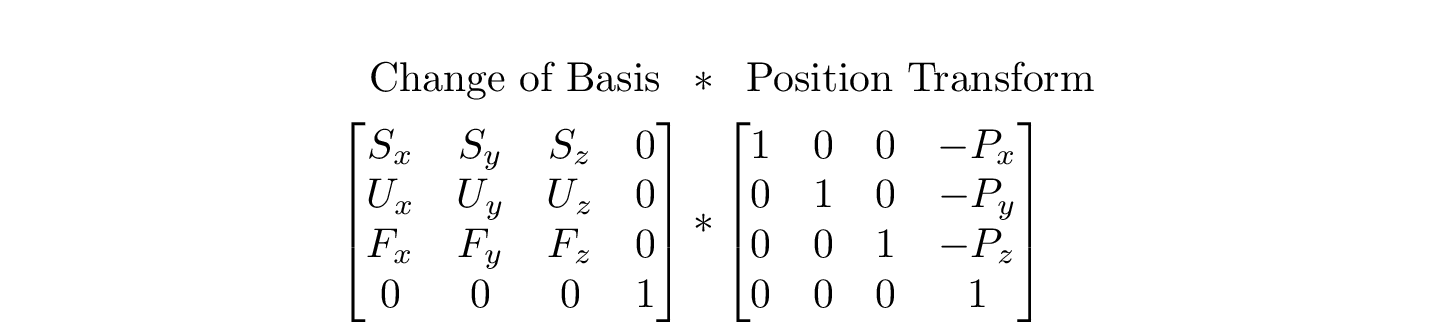
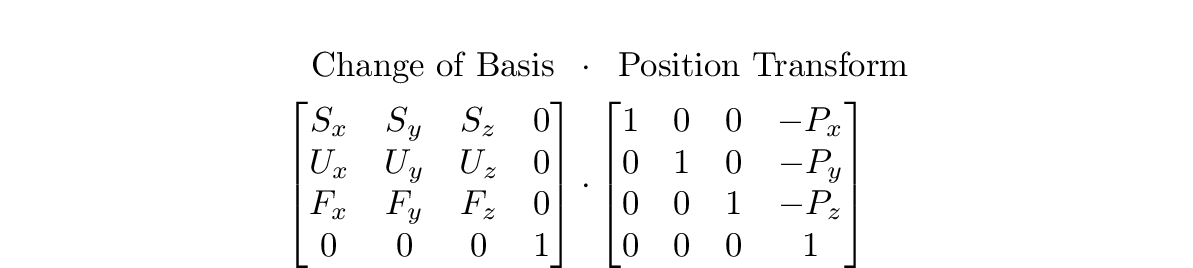
Fixed matrix explaination images

Changed region(s): [[0.2171, 0.3582, 0.7443, 1.0], [0.2481, 0.1791, 0.7754, 0.3284]]

diff --git a/assets/img/posts/Meditative-Marble/mat-mul/mat.tex b/assets/img/posts/Meditative-Marble/mat-mul/mat.tex
@@ -3,13 +3,13 @@
 \begin{document}
 
 \begin{align*}
-  \text{Change of Basis} \; \; &* \; \; \text{Position Transform} \\
+  \text{Change of Basis} \; \; & \cdot \; \; \text{Position Transform} \\
   \begin{bmatrix}
     S_x & S_y & S_z & 0 \\
     U_x & U_y & U_z & 0 \\
     F_x & F_y & F_z & 0 \\
     0 & 0 & 0 & 1 
-  \end{bmatrix} &*
+  \end{bmatrix} & \cdot
   \begin{bmatrix}
     1 & 0 & 0 & -P_x \\
     0 & 1 & 0 & -P_y \\

diff --git a/assets/img/posts/Meditative-Marble/mat/mat.tex b/assets/img/posts/Meditative-Marble/mat/mat.tex
@@ -3,7 +3,7 @@
 \begin{document}
 
 \[
-  \begin{bmatrix}
+  = \begin{bmatrix}
     S_x & S_y & S_z & -P_xS_x - P_yS_y -P_zS_z \\
     U_x & U_y & U_z & -P_xU_x - P_yU_y -P_zU_z \\
     F_x & F_y & F_z & -P_xF_x - P_yF_y -P_zF_z \\
